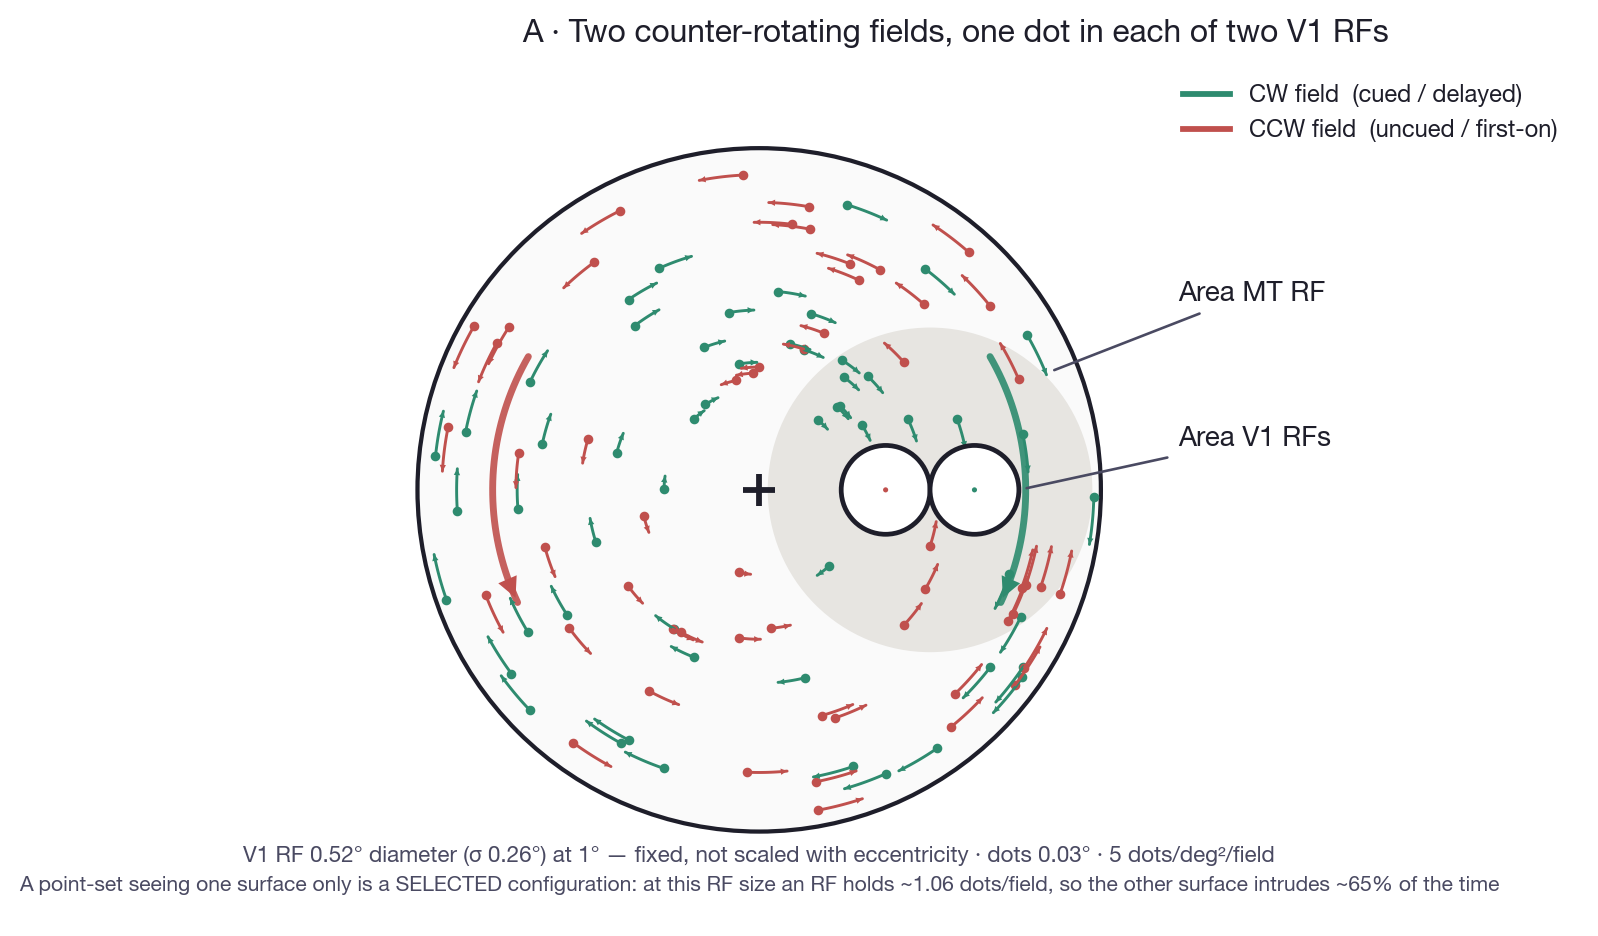
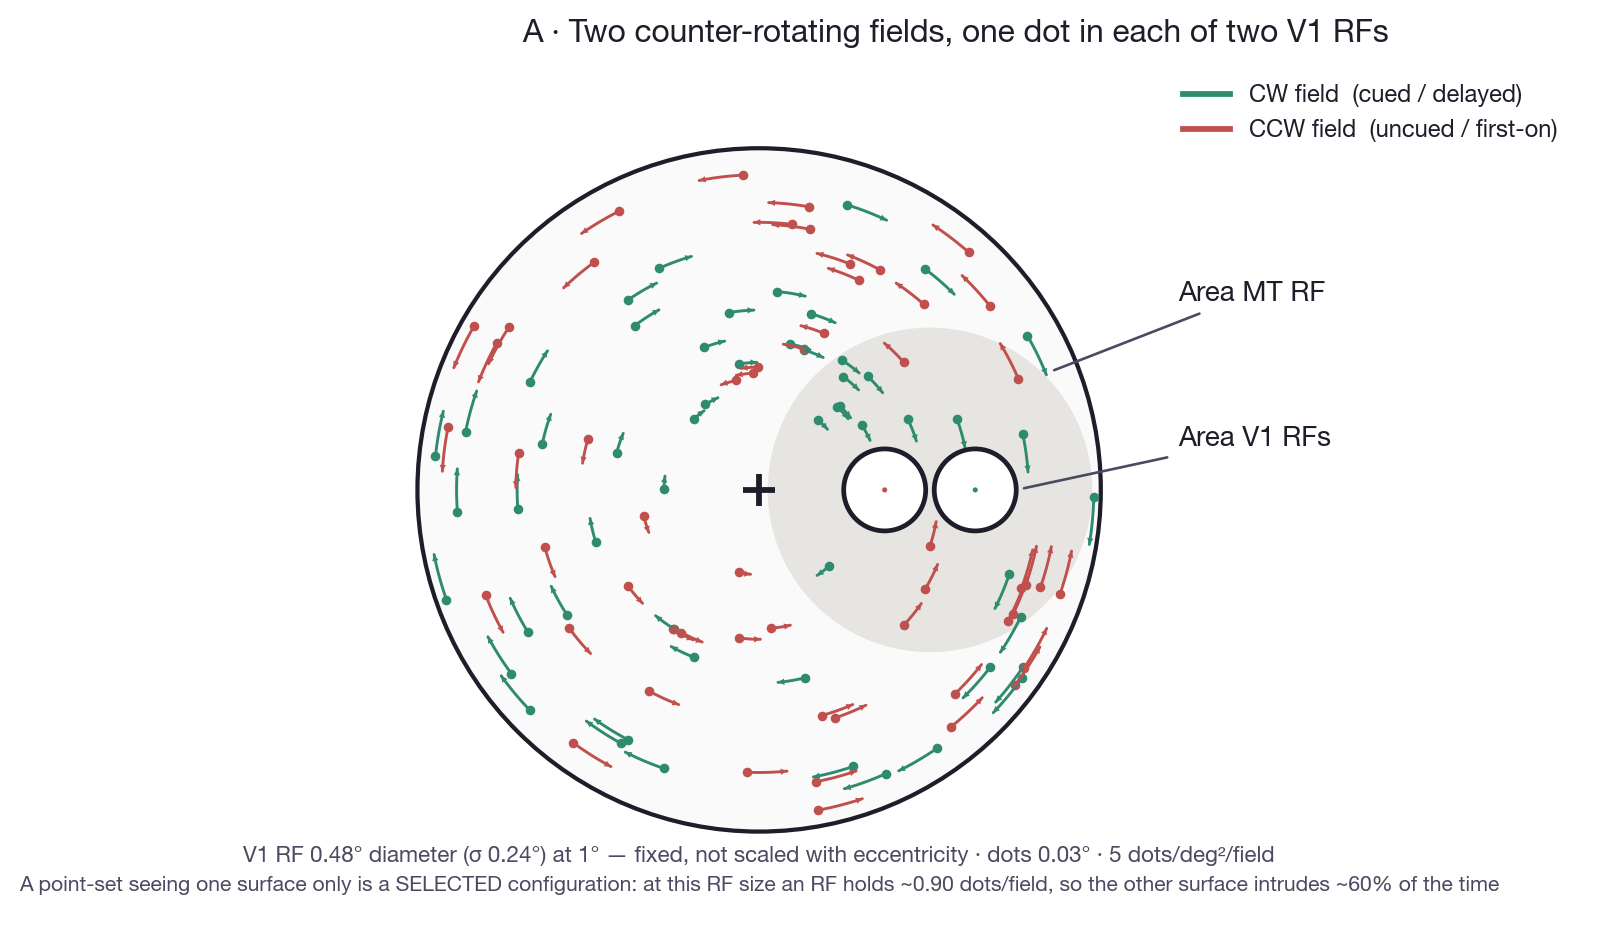
Separate the RF circles, 100 ms pre-probe window, drop the field arcs
Four changes, all GS:

1. RFs a hair smaller so the circles do not touch. sigma 0.26 -> 0.24 (diameter
   0.52 -> 0.48) and a new RF_GAP_DEG = 0.05 sets centre-to-centre explicitly at
   RF_DIAM + gap, rather than leaving the two tangent. Still just under the
   0.52 ceiling where Dumoulin pRF and Freeman & Simoncelli V1 pooling agree.

2. Pre-probe rotation shown is now 100 ms (was 40). This is also what
   hcps_twops.m defaults to when it searches the real stimulus for pure pairs,
   so the schematic and the model now ask the same question.

3. Probe stays 40 ms (parameters.T_TRANS).

4. Dropped the two large field-level rotation arcs and their helper. With the
   per-dot traces present they were redundant — every dot already carries its
   own direction.

Consequences, all recomputed and asserted:
  binding demand (non-translating, straight) 0.1979 + dot = 0.2279
  RF 0.48  ->  margin 2.11x  (was 3.63x with the shorter window and larger RF)
  path now fills ~47% of the RF instead of 27%, so B no longer looks empty
  purity: ~0.91 dots/field per RF -> other surface intrudes ~60%

Not pushed — travelling.

Changed region(s): [[0.5213, 0.3718, 0.6439, 0.6506], [0.3066, 0.3718, 0.3373, 0.6506]]

diff --git a/Agents/Modeling/sb2010/ps_two_rf_figure.py b/Agents/Modeling/sb2010/ps_two_rf_figure.py
@@ -15,28 +15,29 @@ RF SIZE — fixed, NOT scaled with eccentricity (GS: for the toy model we do not
 scale), and drawn at the UPPER END of what can still honestly be called a V1
 receptive field, because this is a schematic:
 
-    sigma = 0.26 deg   ->   RF diameter 2*sigma = 0.52 deg   at E = 1 deg
+    sigma = 0.24 deg   ->   RF diameter 2*sigma = 0.48 deg   at E = 1 deg
 
-Two independent human estimates land there: Dumoulin & Wandell (2008) pRF,
-sigma = 0.1 + 0.15*E; and Freeman & Simoncelli (2011) V1 pooling, s = 0.26*E.
-Both give 0.52 deg at E = 1. For scale, at the same eccentricity Dow 1981 cRF is
-0.13, `hcps_rfrule('small')` (= the MT patch the model runs) is 0.24, and 'large'
-is 0.38. The ceiling is ~0.65 (5x cRF, top of the summation-field range); past
-that the figure would be depicting V2 pooling or an fMRI population, not V1.
-See Agents/SwapPilot/WriteUps/v1_rf_sizes.md.
+Just under the ceiling, so the two RF circles carry a visible gap rather than
+touching (RF_GAP_DEG). The ceiling itself is 0.52 deg, where two independent
+human estimates agree: Dumoulin & Wandell (2008) pRF, sigma = 0.1 + 0.15*E; and
+Freeman & Simoncelli (2011) V1 pooling, s = 0.26*E. For scale, at the same
+eccentricity Dow 1981 cRF is 0.13, `hcps_rfrule('small')` (= the MT patch the
+model runs) is 0.24, and 'large' is 0.38. Absolute limit ~0.65 (5x cRF, top of
+the summation-field range); past that the figure would be depicting V2 pooling
+or an fMRI population, not V1. See Agents/SwapPilot/WriteUps/v1_rf_sizes.md.
 
 CONTAINMENT — the model's central assumption, checked rather than assumed. The
 dot's whole extent, not just its centre, must stay inside one RF for the pre-probe
-rotation AND the probe:
+rotation AND the probe. Windows: 100 ms rotation + 40 ms probe.
 
-    non-translating dot   straight run of omega*E*(PRE+PROBE)      = 0.1131 deg
-    translating dot       L-path, hypot(rotation, translation)     = 0.1066 deg
+    non-translating dot   straight run of omega*E*(PRE+PROBE)      = 0.1979 deg
+    translating dot       L-path, hypot(rotation, translation)     = 0.1678 deg
     + dot diameter (Minkowski sum with a disc)                     + 0.03 deg
     ------------------------------------------------------------------------
-    required 0.1431 deg   vs   RF 0.52 deg      ->  margin 3.63x
+    required 0.2279 deg   vs   RF 0.48 deg      ->  margin 2.11x
 
-⚠ THE DRAWN PAIR IS SELECTED, NOT TYPICAL. At 0.52 deg an RF holds ~1.06 dots
-per field on average, so P(the other surface also intrudes) ~ 65%. A point-set
+⚠ THE DRAWN PAIR IS SELECTED, NOT TYPICAL. At 0.48 deg an RF holds ~0.91 dots
+per field on average, so P(the other surface also intrudes) ~ 60%. A point-set
 seeing exactly one surface is the exception at this RF size — which is precisely
 why `hcps_twops.m` has to SEARCH for such pairs across layout seeds rather than
 assume them. Any caption must not imply purity is generic.
@@ -75,21 +76,23 @@ DOT_DIAM_DEG = 0.03                 # S&B dot; VRDots = 0.08
 
 # ── the RFs: FIXED size, not scaled with eccentricity ──
 ECC_DEG      = 1.0                  # the MT patch's own eccentricity
-SIGMA_DEG    = 0.26                 # UPPER END of realistic V1 at E=1: Dumoulin pRF
-                                    # (0.1+0.15E) and Freeman&Simoncelli V1 pooling
-                                    # (0.26E) both give 2*sigma = 0.52 deg.
+SIGMA_DEG    = 0.24                 # just under the upper end of realistic V1 at E=1:
+                                    # Dumoulin pRF (0.1+0.15E) and Freeman&Simoncelli
+                                    # V1 pooling (0.26E) both cap at 2*sigma = 0.52.
                                     # 0.19 -> hcps_rfrule('large'); 0.12 -> 'small'
+RF_GAP_DEG   = 0.05                 # clear gap so the two RF circles do not touch
 RF_DIAM_DEG  = 2 * SIGMA_DEG
 RF_R_DEG     = SIGMA_DEG
-RF_LEFT      = (ECC_DEG - RF_R_DEG, 0.0)
-RF_RIGHT     = (ECC_DEG + RF_R_DEG, 0.0)
+_SEP         = RF_DIAM_DEG + RF_GAP_DEG      # centre-to-centre
+RF_LEFT      = (ECC_DEG - _SEP / 2, 0.0)
+RF_RIGHT     = (ECC_DEG + _SEP / 2, 0.0)
 MT_R_DEG     = 0.95                 # the MT RF enclosing both, as in fig_modelI;
                                     # must exceed RF_R_DEG*3 = 0.78 to contain them
 
 # ── motion ──
 OMEGA_DEG_S  = 81.0
 PROBE_DEG_S  = 2.26
-PRE_MS       = 40.0
+PRE_MS       = 100.0                # pre-probe rotation shown (GS, 2026-08-18)
 TRANS_MS     = 40.0
 TRACE_MS     = 100.0                # trace length for the background field dots
 
@@ -142,17 +145,6 @@ def _arc_motion(ax, p, fix, sense, color, lw=1.7, head=8, sweep_deg=None):
     ax.plot(xs, ys, color=color, lw=lw, solid_capstyle="round", zorder=4)
     ax.add_patch(FancyArrowPatch((xs[-2], ys[-2]), (xs[-1], ys[-1]),
                  arrowstyle="-|>", mutation_scale=head, color=color, lw=0, zorder=4))
-
-
-def _big_rotation_arrow(ax, a0, a1, R, color):
-    """The field-level rotation arrow, as in fig_modelI_stimulus."""
-    th = np.radians(np.linspace(a0, a1, 40))
-    ax.plot(R * np.cos(th), R * np.sin(th), color=color, lw=2.6,
-            solid_capstyle="round", zorder=2, alpha=0.9)
-    p0 = np.array([R * np.cos(th[-3]), R * np.sin(th[-3])])
-    p1 = np.array([R * np.cos(th[-1]), R * np.sin(th[-1])])
-    ax.add_patch(FancyArrowPatch(p0, p1, arrowstyle="-|>", mutation_scale=19,
-                 color=color, lw=0, zorder=2))
 
 
 def _rotation_path(p0, sense, ms, n=64):
@@ -214,10 +206,6 @@ def fig_A(out="ps_two_rf_A.png", show_traj=False):
     for p in r:
         ax.scatter(*p, s=7, color=RED, zorder=3)
         _arc_motion(ax, p, (0, 0), "CCW", RED, lw=1.1, head=6, sweep_deg=sweep)
-
-    # field-level rotation arrows (CCW red on the left, CW green on the right)
-    _big_rotation_arrow(ax, 150, 205, APERTURE_DEG * 0.78, RED)
-    _big_rotation_arrow(ax, 30, -25, APERTURE_DEG * 0.78, GREEN)
 
     # the two V1 RFs, side by side, FIXED size
     for c in (RF_LEFT, RF_RIGHT):
